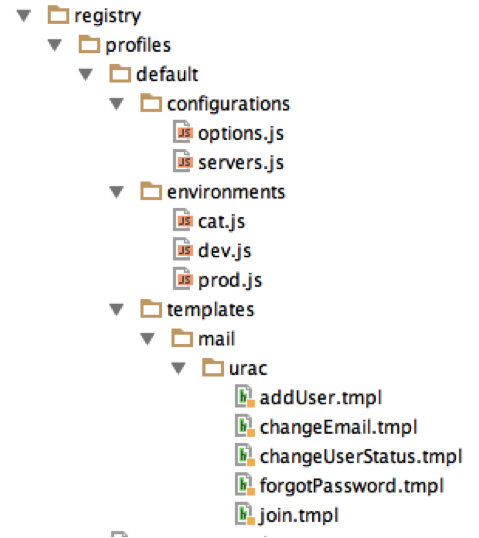
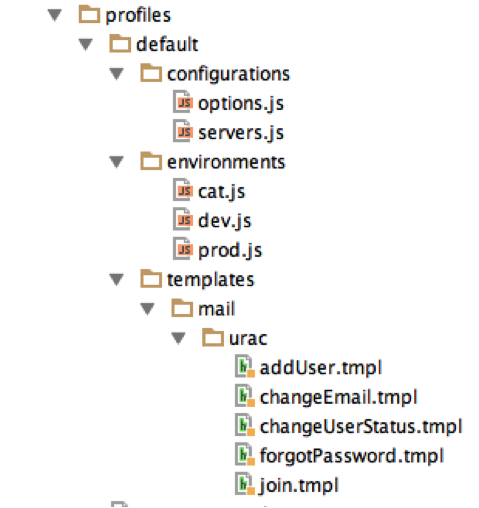
updated registry in documentation section

diff --git a/sections/documentation/registry.html b/sections/documentation/registry.html
@@ -3,13 +3,14 @@
 <div class="white-container">
     <p>
         <img ng-src="images/documentation/registry1.png" id="registry1png" class="image-border image-right img-margin-l-b"/>
-        SOAJS offers the ability to have multiple projects running on different environments with different configuration.
-        <br/><br/>
-        Projects are located in the registry of SOAJS under the <b>profiles</b> folder. The name of the project is set using an <a href="http://en.wikipedia.org/wiki/Environment_variable" target="_blank">environment variable</a> on your machine or the project
-        named <b>default</b> is used.
-        <br/><br/>
-		The registry is located in "<b>soajs/modules/soajs.core/registry/</b>".
-        <br/><br/>
+        SOAJS offers the ability to have multiple projects running on different environments with different configuration. Projects are located in SOAJS under the <b>profiles</b> folder.<br />The name of the project is set using an <a href="http://en.wikipedia.org/wiki/Environment_variable" target="_blank">environment variable</a> on your machine or the project named <b>default</b> is used, the same applies on which environment will be loaded, and where to loacate the projects registry information.<br />SOAJS uses 3 environment variables to locate the project profile to use:
+	    <ul>
+			<li><b>SOAJS_REGDIR</b>: The path from the root level to where the profiles folder is located.</li>
+			<li><b>SOAJS_PRJ</b>: The project folder inside the profiles folder that should be used.</li>
+			<li><b>SOAJS_ENV</b>: The environment to load from the profiles folder.</li>
+		</ul>
+		By default, SOAJS looks for the profiles folder if the environment variable is not set in its root folder. This folder contains the project name, environments and all registry coniguration needed by SOAJS so that the application can run.<br />You can change the path of the profiles folder to another destination but keep in mind if you do that, you need to update the value of the environment value <b>SAOJS_REGDIR</b>.
+		The same concept applies for project and environment names, by default, SOAJS uses the <b>default</b> project name in profiles folder and the <b>dev</b> environment. When you create a new project make sure you update <b>SOAJS_PRJ</b> and when you deploy on a new environment other than <b>dev</b>, also change <b>SOAJS_ENV</b>.<br /><br />
         Every Project can run in different environments. You define for each environment: the DB configuration, the templates, the services and their options. The default one is <b>dev</b>.
         <br/><br/>
         Projects also have templates and configuration files that are used inside the running environment. Configure your database connection and place your service templates in these
